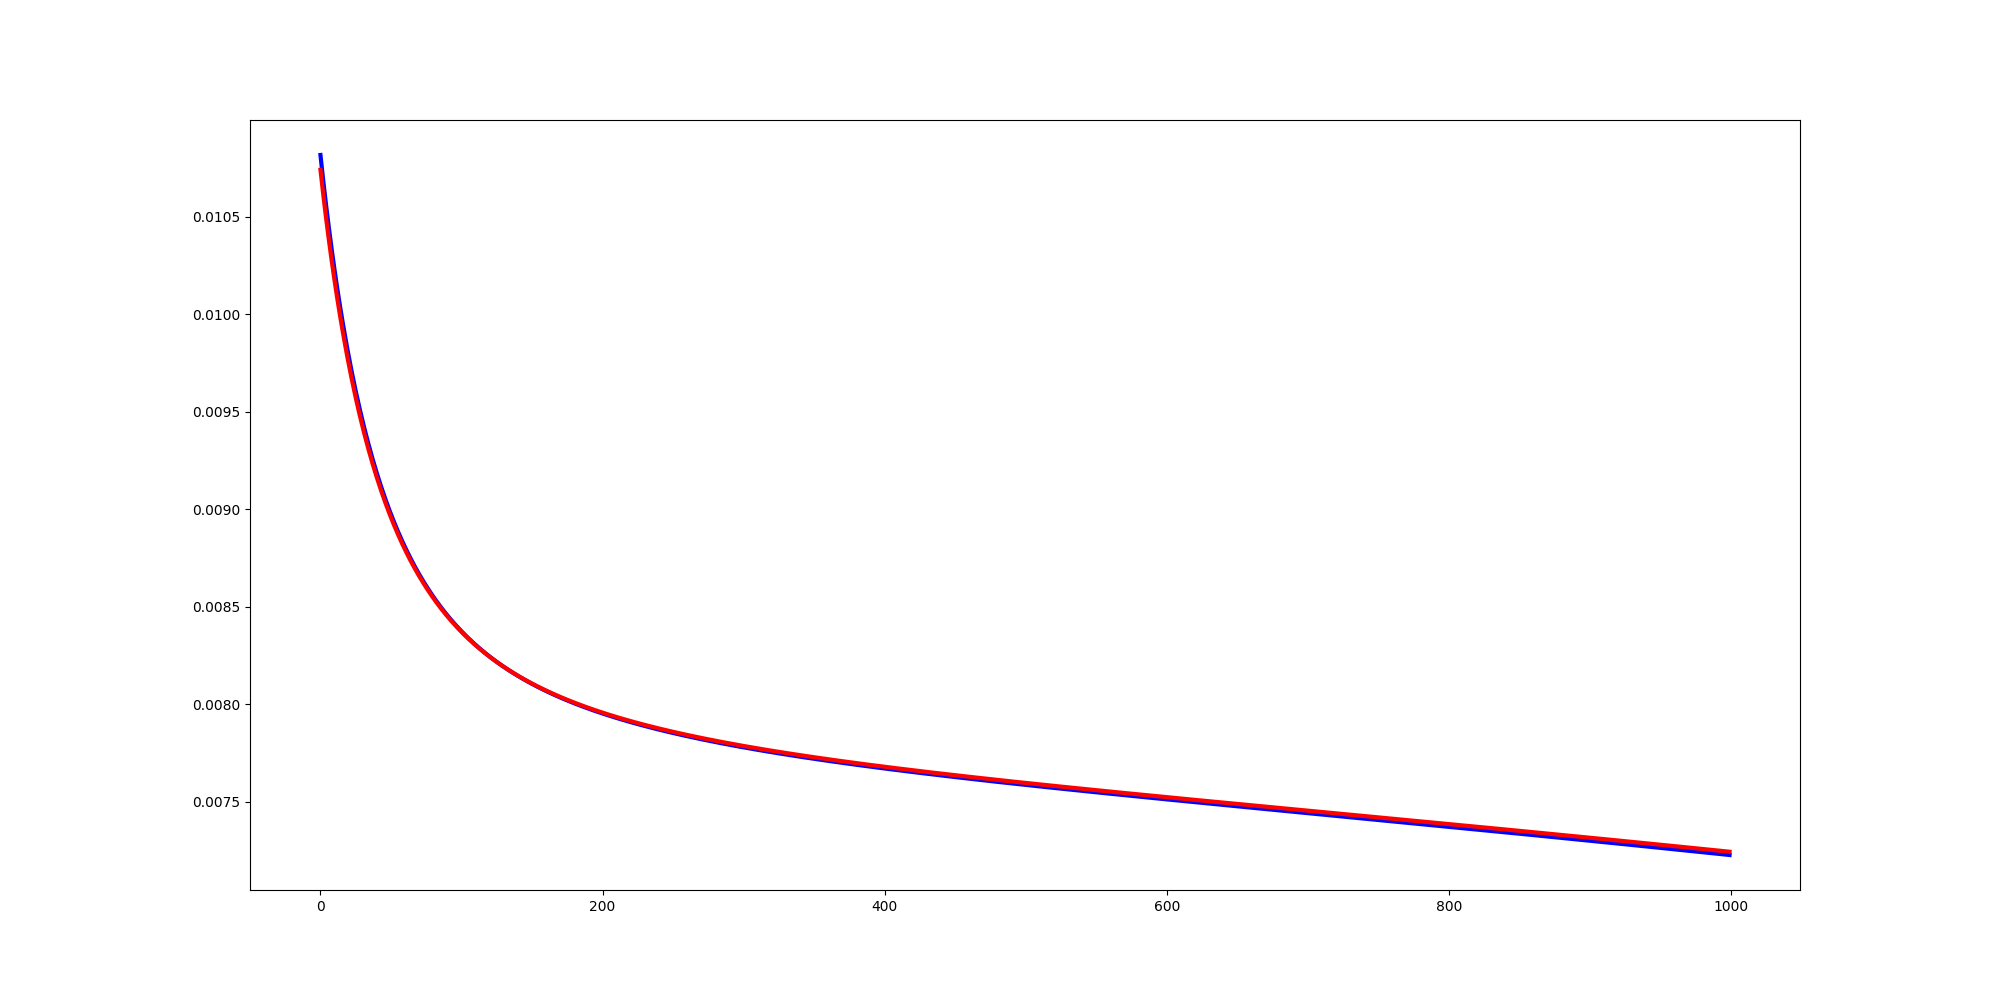
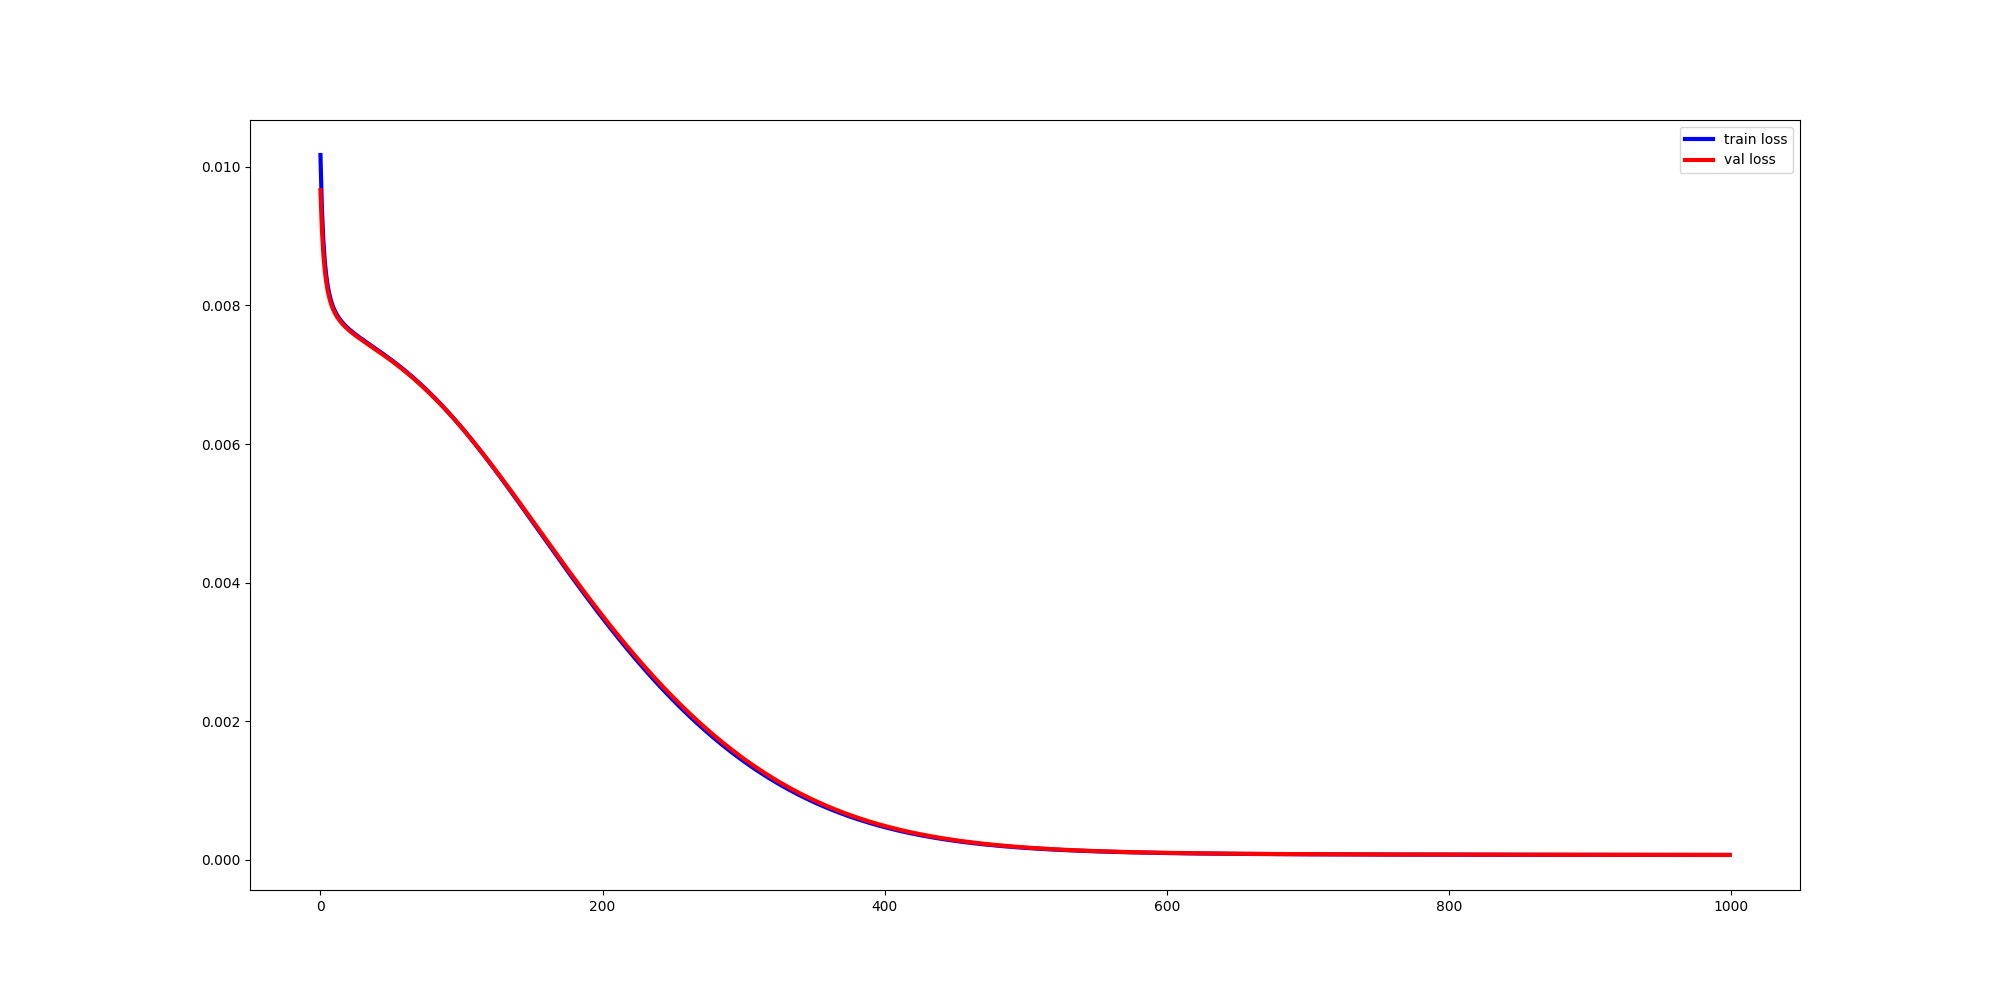
added bits

diff --git a/generate_data_finaly.py b/generate_data_finaly.py
@@ -12,9 +12,10 @@ dg = DataGenerator(T=200,N=2**10,number_symbols=32)
 params = Params(N=2**10,T=200,number_symbols=32,nz=500)
 nnet_gen = Generative_Model(params=params)
 
-n_samples = 1000
+n_samples = 1e4
 
 feature_vectors = []
+bit_signals = []
 labels = []
 
 for i in range(n_samples):
@@ -24,6 +25,8 @@ for i in range(n_samples):
     dg.mod()
     
     x = dg.q0t
+    
+    bit_signals.append(dg.bernoulli)
     
     x_flatten = np.asarray([[x[i].real , x[i].imag] for i in range(len(x))]).flatten()
     
@@ -36,12 +39,15 @@ for i in range(n_samples):
     feature_vectors.append(y_2d)
 
 feature_vectors = np.asarray(feature_vectors)
+bit_signals = np.asarray(bit_signals)
 labels = np.asarray(labels)
 
 print(time.time() - start_time)
 
 print(feature_vectors.shape)
 print(labels.shape)
+print(bit_signals.shape)
 
 np.save(arr=feature_vectors,file='data/feature_vectors.npy')
+np.save(arr=bit_signals,file='data/bit_signals.npy')
 np.save(arr=labels,file='data/labels.npy')

diff --git a/main_predictors.py b/main_predictors.py
@@ -6,9 +6,9 @@ import time
 feature_vectors = np.load(file='/app/data/feature_vectors.npy')
 labels = np.load(file='/app/data/labels.npy')
 
-xtrain , xtest , ytrain , ytest = train_test_split(feature_vectors,labels,test_size=0.20)
+xtrain , xtest , ytrain , ytest = train_test_split(feature_vectors,labels,test_size=0.20,random_state=42)
 
-xtrain , xvalidation , ytrain , yvalidation = train_test_split(xtrain,ytrain,test_size=0.125)
+xtrain , xvalidation , ytrain , yvalidation = train_test_split(xtrain,ytrain,test_size=0.125,random_state=42)
 
 ffn = FFN(xtrain=xtrain,ytrain=ytrain,xtest=xtest,ytest=ytest,
           xvalidation=xvalidation,yvalidation=yvalidation)

diff --git a/FFN.py b/FFN.py
@@ -6,7 +6,7 @@ import matplotlib.pyplot as plt
 class FFN:
 
     def __init__(self, xtrain, ytrain, xtest, ytest, xvalidation, yvalidation,
-                 batch_size=1000, epochs=1000, learning_rate=1,
+                 batch_size=1000, epochs=1000, learning_rate=10,
                  build_model=True, save_model=True, draw_model=True,
                  show_summary=False, show_verbose=True):
 
